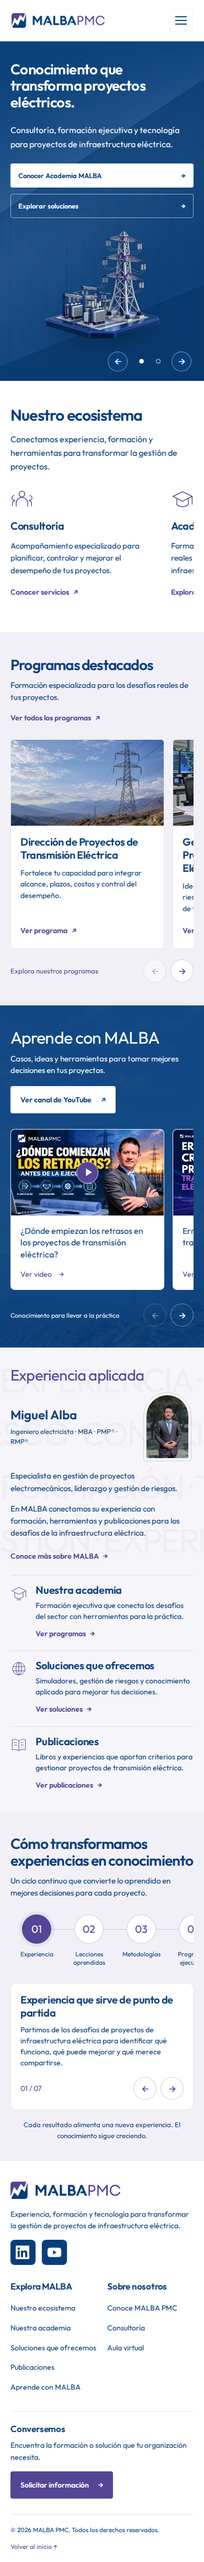
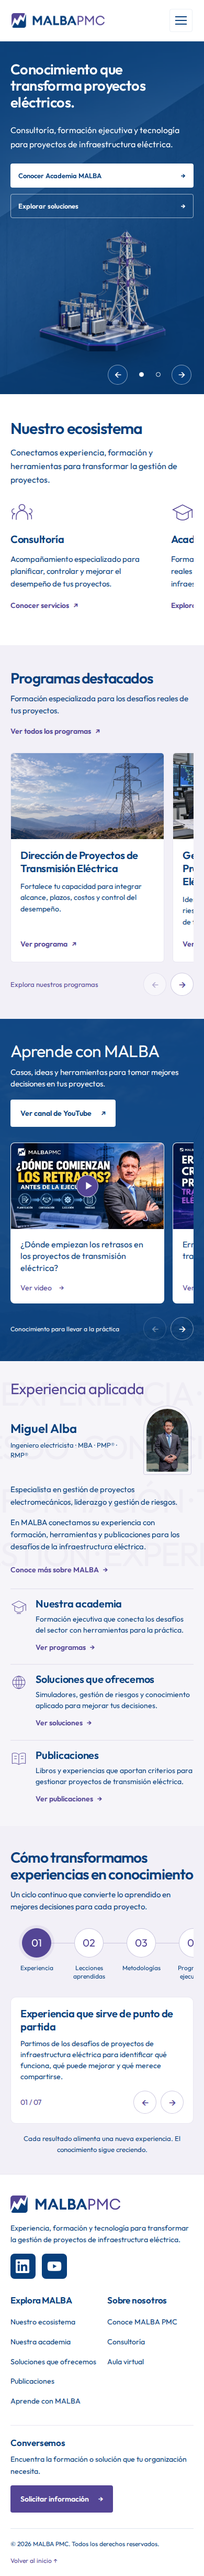
Enlarge hero model and add subtle animated light trails

Changed region(s): [[0.0, 0.0311, 1.0, 0.9636], [0.8615, 0.746, 0.9538, 0.7771], [0.7692, 0.0311, 0.8308, 0.0622]]

diff --git a/home-sections.css b/home-sections.css
@@ -900,18 +900,18 @@ body:has(#video-dialog[open]) { overflow: hidden; }
 .hero-with-showcase #hero-title { font-size: clamp(38px,4.05vw,60px); }
 .hero-with-showcase .hero-actions { gap: 12px; }
 .hero-with-showcase .hero-actions .button { font-size: 14px; padding: 0 19px; gap: 14px; }
-.hero-showcase-3d { position: relative; width: 100%; max-width: 560px; height: 430px; justify-self: end; filter: drop-shadow(0 18px 18px rgba(0,0,0,.18)); pointer-events: none; }
-.hero-showcase-3d picture { position: absolute; inset: 0; display: block; width: 100%; height: 100%; }
+.hero-showcase-3d { position: relative; width: 100%; max-width: 560px; height: 470px; justify-self: end; filter: drop-shadow(0 18px 18px rgba(0,0,0,.18)); pointer-events: none; }
+.hero-showcase-3d picture { position: absolute; inset: 0; z-index: 1; display: block; width: 100%; height: 100%; }
 .hero-showcase-3d img { display: block; width: 100%; height: 100%; object-fit: contain; }
 
 @media (max-width: 1130px) and (min-width: 761px) {
   .hero-with-showcase .hero-copy { gap: 32px; grid-template-columns: 1.2fr 1fr; }
   .hero-with-showcase #hero-title { font-size: clamp(32px,4.05vw,46px); }
-  .hero-showcase-3d { height: 360px; }
+  .hero-showcase-3d { height: 390px; }
   .hero-with-showcase .hero-actions .button { font-size: 13px; padding: 0 14px; gap: 8px; min-height: 48px; }
 }
 @media (max-width: 900px) and (min-width: 761px) {
-  .hero-showcase-3d { height: 310px; }
+  .hero-showcase-3d { height: 340px; }
   .hero-with-showcase .hero-copy { gap: 24px; }
   .hero-with-showcase .hero-copy p { font-size: 17px; }
 }
@@ -920,10 +920,10 @@ body:has(#video-dialog[open]) { overflow: hidden; }
   .hero-with-showcase #hero-title { font-size: clamp(26px,7vw,48px); }
   .hero-with-showcase .hero-actions { margin-top: 24px; }
   .hero-with-showcase .hero-actions .button { font-size: 13px; padding: 0 14px; gap: 10px; min-height: 46px; }
-  .hero-showcase-3d { height: 215px; max-width: 390px; justify-self: center; }
+  .hero-showcase-3d { height: 240px; max-width: 390px; justify-self: center; }
 }
 @media (max-width: 359px) {
-  .hero-showcase-3d { height: 190px; }
+  .hero-showcase-3d { height: 210px; }
 }
 @media (prefers-reduced-motion: reduce) {
   .hero-assembly-part { animation: none !important; opacity: 1 !important; transform: none !important; }
@@ -955,3 +955,19 @@ body:has(#video-dialog[open]) { overflow: hidden; }
   .hero-assembly-pending .hero-assembly-rest, .is-assembling .hero-assembly-rest { opacity: 1; }
   .is-assembling .hero-assembly-part { animation: none; visibility: hidden; }
 }
+
+/* Small light trails animate around the silhouette, behind the model. */
+.hero-light-trails { position: absolute; inset: 0; z-index: 0; pointer-events: none; }
+.hero-light-trails i { position: absolute; width: 2px; height: 38px; border-radius: 3px; background: rgba(255,255,255,.65); box-shadow: 0 0 9px rgba(255,255,255,.25); opacity: 0; animation: malba-light-trail 4.8s ease-in-out infinite; }
+.hero-light-trails i:nth-child(1) { left: 17%; top: 40%; --trail-angle: -28deg; animation-delay: 2.1s; }
+.hero-light-trails i:nth-child(2) { right: 10%; top: 29%; --trail-angle: 28deg; animation-delay: 3.3s; height: 27px; }
+.hero-light-trails i:nth-child(3) { left: 9%; top: 69%; --trail-angle: -28deg; animation-delay: 4.5s; height: 23px; }
+.hero-light-trails i:nth-child(4) { right: 7%; top: 62%; --trail-angle: 28deg; animation-delay: 5.7s; height: 32px; }
+@keyframes malba-light-trail {
+  0%, 55%, 100% { opacity: 0; transform: rotate(var(--trail-angle)) translateY(18px); }
+  18% { opacity: .6; }
+  40% { opacity: 0; transform: rotate(var(--trail-angle)) translateY(-32px); }
+}
+.hero-slide[aria-hidden="true"] .hero-light-trails i { animation-play-state: paused; }
+@media (max-width: 760px) { .hero-light-trails i { height: 22px; } }
+@media (prefers-reduced-motion: reduce) { .hero-light-trails { display: none; } }

diff --git a/index.html b/index.html
@@ -6,7 +6,7 @@
     <script>
       // Prepare the first-visit animation before paint; static fallback after 3.5 s.
       try {
-        if (!matchMedia('(prefers-reduced-motion: reduce)').matches && !sessionStorage.getItem('malba-hero-assembly-v1')) {
+        if (!matchMedia('(prefers-reduced-motion: reduce)').matches && !sessionStorage.getItem('malba-hero-assembly-v2')) {
           document.documentElement.classList.add('hero-assembly-pending');
           setTimeout(() => document.documentElement.classList.remove('hero-assembly-pending'), 3500);
         }
@@ -203,6 +203,7 @@
                 </div>
               </div>
               <div class="hero-showcase hero-showcase-3d" data-hero-assembly aria-hidden="true">
+                <span class="hero-light-trails"><i></i><i></i><i></i><i></i></span>
                 <picture class="hero-assembly-rest">
                   <source media="(max-width: 760px)" srcset="assets/hero/infraestructura-3d-640.webp">
                   <img src="assets/hero/infraestructura-3d-1280.webp" width="1280" height="1170" alt="" decoding="async" fetchpriority="high">

diff --git a/home-sections.js b/home-sections.js
@@ -10,7 +10,7 @@ async function startHeroAssembly() {
   try {
     await Promise.all([...heroAssembly.querySelectorAll('img')].map(img => img.decode()));
     if (motionPreference.matches || !document.documentElement.classList.contains('hero-assembly-pending')) return;
-    try { sessionStorage.setItem('malba-hero-assembly-v1', 'seen'); } catch (_) {}
+    try { sessionStorage.setItem('malba-hero-assembly-v2', 'seen'); } catch (_) {}
     heroAssembly.classList.add('is-assembling');
     const finish = () => heroAssembly.classList.remove('is-assembling');
     heroAssembly.querySelector('.hero-part-tower').addEventListener('animationend', finish, {once:true});

diff --git a/docs/VALIDATION.md b/docs/VALIDATION.md
@@ -28,3 +28,7 @@ Verificados los tres estados de ensamblaje, la recarga y diez anchos entre 320 y
 ### Fondo arquitectónico sutil
 
 Imagen original de arquitectura con pocos planos, sin torres ni equipos adicionales. WebP responsive de 1536 y 800 px con capa azul uniforme al 74%, 68% al hover/foco. Revisados diez anchos de 320 a 1920 px, tres pasos del ensamblaje, sesión, navegación al libro, movimiento reducido y alternativa sin JavaScript: sin desbordamiento horizontal, recursos locales faltantes ni errores de JavaScript. Capturas actualizadas.
+
+### Modelo ampliado y destellos
+
+Se amplió el contenedor 3D de 430 a 470 px en escritorio y de 215 a 240 px en celular, con tamaños intermedios adaptados. Cuatro trazos luminosos suaves animan detrás del modelo mediante CSS, sin recursos adicionales. Se pausan en la diapositiva inactiva y se ocultan con movimiento reducido. Actualizada la clave de sesión a v2 para mostrar nuevamente el ensamblaje al probar esta versión. Verificados diez anchos (320–1920 px), secuencia base/módulo/torre, navegación al libro, ausencia de desbordamientos y errores; comprobada la visibilidad de los destellos y su alternativa con movimiento reducido.

diff --git a/docs/hero-3d-design.md b/docs/hero-3d-design.md
@@ -12,4 +12,4 @@ Use case: stylized-concept. Asset type: premium 3D transparent cutout for the ri
 
 El primer banner utiliza azul sólido #073F7C, sin fotografía de torres detrás. La animación reutiliza la misma ilustración mediante tres capas recortadas con CSS: base, módulo central y torre. No requiere un motor 3D ni recursos adicionales. Al terminar muestra una sola imagen completa.
 
-`home-sections.js` registra la entrada con `sessionStorage` bajo `malba-hero-assembly-v1`. Se reproduce una vez por sesión de pestaña y respeta `prefers-reduced-motion`. Sin JavaScript, almacenamiento o animación, la alternativa es la ilustración completa.
+`home-sections.js` registra la entrada con `sessionStorage` bajo `malba-hero-assembly-v2`. Se reproduce una vez por sesión de pestaña y respeta `prefers-reduced-motion`. Sin JavaScript, almacenamiento o animación, la alternativa es la ilustración completa.
